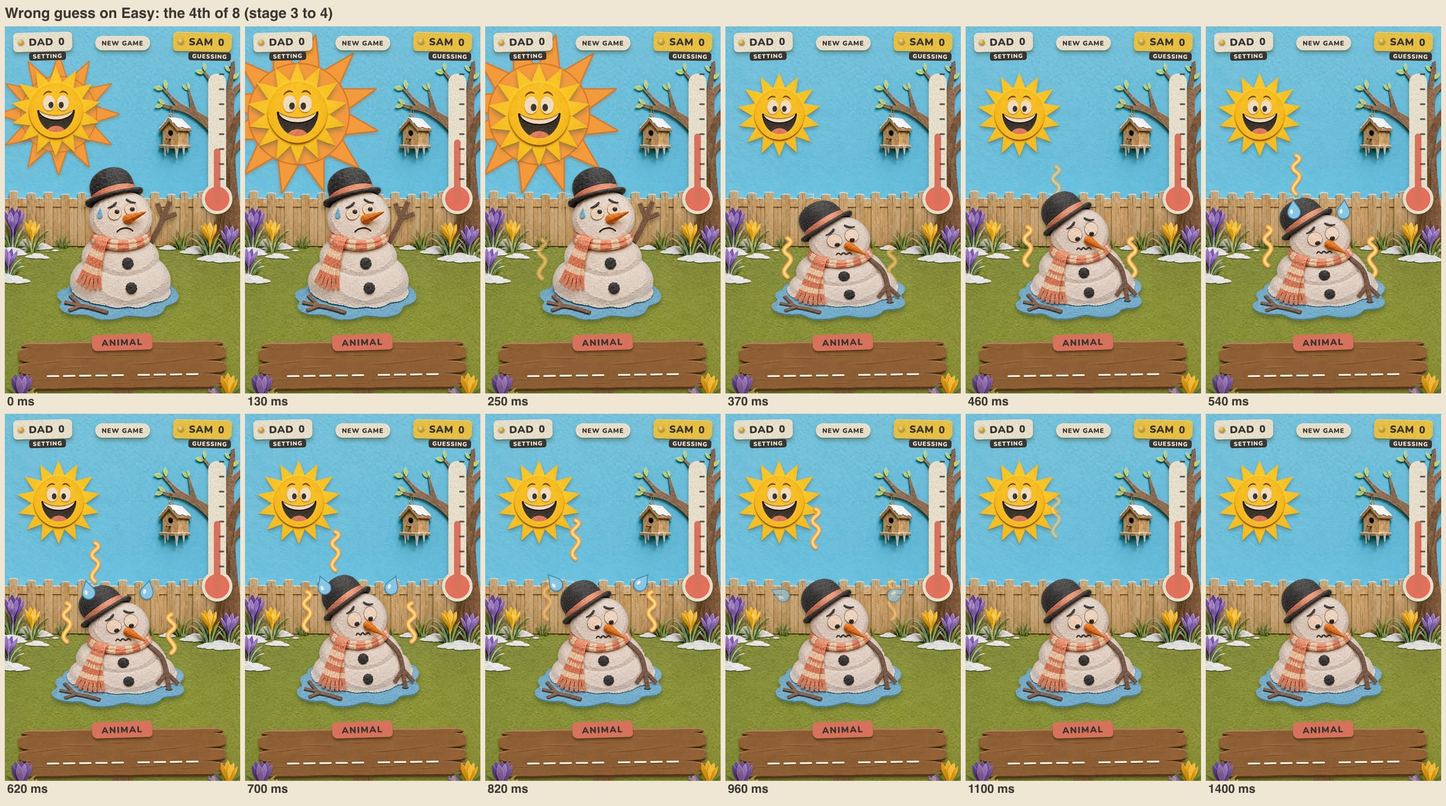
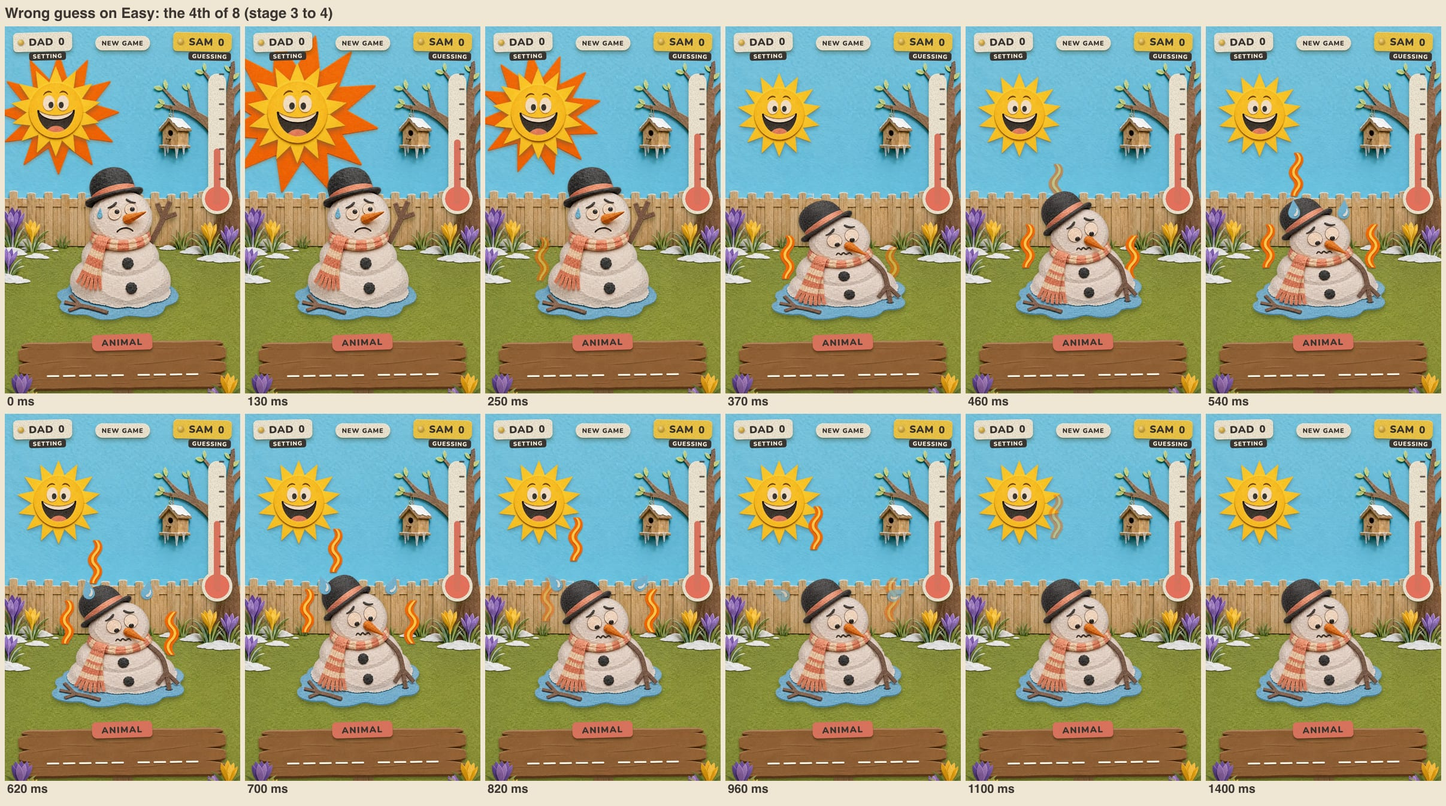
Remove the melt's stand-ins: the eleven real pieces are in
The round 7 pieces are cut and committed (6b077ad), so the melt loads them
straight from the manifest. src/paper/melt-standins/ and melt-art.ts, which
fell back to them, are gone, so no stand-in can ship. The real puddle
reaches down to the scarf's fringe as stage 8 does, so it now sits with its
bottom at his feet (REST.puddle.bottom 0, was 8 for the stand-in). The
strips in docs/phase-2/melt/game-*.jpg are retaken with the real art.

diff --git a/src/paper/melt-timeline.ts b/src/paper/melt-timeline.ts
@@ -17,7 +17,7 @@
 // of the middle of his feet and y up from them. melt.ts scales them to the screen.
 import manifest from './art-manifest.json';
 
-/** The loose pieces the melt draws, by the names they have (or will have) in public/art/. */
+/** The loose pieces the melt draws, by their names in public/art/ (art round 7, art/prompts/round-7-melt-pieces.md). */
 export const MELT_PIECES = [
   'puddle',
   'puddle-hat',
@@ -40,17 +40,17 @@ export const FULL = manifest['snowman-0'].h;
 export const stageHeight = (stage: number) => manifest[`snowman-${stage}` as keyof typeof manifest].h;
 
 /**
- * Where the middle of each loose piece lies when the puddle is at rest, as in the drawn stage 8
- * (measured by melt-standins/make-standins.mjs). The puddle is given by its bottom edge.
- * If the real puddle's outline differs, these are the numbers to nudge.
+ * Where the middle of each loose piece lies when the puddle is at rest, measured from the drawn
+ * stage 8, so the pieces lie as they do there. The puddle is given by its bottom edge: like stage 8
+ * it reaches down to the tip of the scarf's fringe, at his feet.
  */
 export const REST = {
-  puddle: { x: 0, bottom: 8 },
+  puddle: { x: 0, bottom: 0 },
   hat: { x: 53.5, y: 285.5 },
   carrot: { x: -127, y: 142.5 },
   eyes: { x: -76, y: 196.5 },
 } as const;
-/** Where the middle of the hat sits on stages 6 and 7, the two stages a round can be lost from. */
+/** Where the middle of the hat sits on stages 6 and 7 (measured from those pictures), the two stages a round can be lost from. */
 export const HAT_ON = {
   'hat-6': { x: -70.5, y: 383 },
   'hat-7': { x: -58, y: 284.5 },

diff --git a/src/paper/melt.ts b/src/paper/melt.ts
@@ -12,7 +12,6 @@
 import './melt.css';
 import { art, manifest, snowmanPiece } from './art';
 import type { SceneMetrics } from './celebration';
-import { meltPiece } from './melt-art';
 import {
   LOSS_MS,
   MELT_PIECES,
@@ -47,7 +46,7 @@ type Mode = 'idle' | 'miss' | 'loss' | 'rest';
 const STAGES = [0, 1, 2, 3, 4, 5, 6, 7];
 const HATS: HatPiece[] = ['hat-6', 'hat-7', 'puddle-hat'];
 
-/** `piece` names the picture for the browser checks: a stand-in's address says nothing about what it is. */
+/** `piece` names the picture, for the browser checks. */
 function img(src: string, piece: string, className = ''): HTMLImageElement {
   const el = new Image();
   el.alt = '';
@@ -63,7 +62,8 @@ function img(src: string, piece: string, className = ''): HTMLImageElement {
  */
 export function createMelt(scene: HTMLElement, snowman: HTMLImageElement, sun: HTMLImageElement, animateRest: boolean): Melt {
   // ---- the pieces ----
-  const pieces = Object.fromEntries(MELT_PIECES.map((name) => [name, meltPiece(name)])) as Record<MeltPiece, ReturnType<typeof meltPiece>>;
+  // each loose piece's address and its size in the cut art's pixels
+  const pieces = Object.fromEntries(MELT_PIECES.map((name) => [name, { src: art(name), ...manifest[name] }])) as Record<MeltPiece, { src: string; w: number; h: number }>;
   // Every picture is a direct child of the actor and is moved by its own transform: WebKit does not
   // paint pictures nested in a second zero-size box inside the actor's drop shadow.
   const bodies = new Map<number | 'puddle', HTMLImageElement>();

diff --git a/docs/phase-2/melt/notes.md b/docs/phase-2/melt/notes.md
@@ -21,7 +21,6 @@ The same shape as the win celebration.
 | `src/paper/melt-timeline.ts` | The melt as pure functions of the time since the guess: `missFrame(from, to, t)`, `lossFrame(from, t)`, `restFrame(t)`. Units are pixels of the cut art (the fresh snowman is 912 tall), from the middle of his feet. Also the piece names (`MELT_PIECES`) and where the loose pieces lie (`REST`, `HAT_ON`). |
 | `src/paper/melt-timeline.test.ts` | 17 tests: every miss at every difficulty starts and ends on the right stage and passes through each one in between; the hat hangs clear of the puddle and drops straight into its place; the loss ends in the puddle at rest; nothing is held for under 40 ms. |
 | `src/paper/melt.ts`, `melt.css` | Draws one frame at a time over the play screen's scene. While it plays, the plain `#snowman` is faded out (class `aside`), not removed, so its alt text is still read. |
-| `src/paper/melt-art.ts` | Where each loose piece comes from: `public/art/` once the manifest has it, otherwise a stand-in from `src/paper/melt-standins/`. |
 | `src/paper/play.ts` | Starts the beat on a wrong guess and the loss on the last one; holds the result back until the loss has played or been skipped. |
 
 Rules it follows:
@@ -41,7 +40,7 @@ Eleven loose pieces, by the names they have in `public/art/` (`art/prompts/round
 - Sheet `melt-puddle.png`: `puddle`, `puddle-hat`, `puddle-carrot`, `puddle-eyes`, `puddle-eyes-closed`, `hat-6`, `hat-7`.
 - Sheet `melt-heat.png`: `sun-flare`, `heat-1`, `heat-2`, `drop`.
 
-Until a piece is cut, the game uses a rough stand-in of the same name from `src/paper/melt-standins/` (cut from the existing stages by `make-standins.mjs`, or a simple drawn shape). **Stand-ins must not go live.** When all eleven real pieces are in the manifest, delete `src/paper/melt-standins/` and the stand-in half of `melt-art.ts`.
+All eleven were generated and cut on 2026-11-21 (commit 6b077ad; the prompts file has the results, including why the puddle's pieces come from three sheets). The game was first built with rough stand-ins cut from the existing stages; they were deleted once the real pieces were in (their cutter is in the history at commit 1b2edb6, `src/paper/melt-standins/make-standins.mjs`). `REST` and `HAT_ON` in `melt-timeline.ts`, the places the pieces lie, were measured from the drawn stages 6, 7 and 8 by that cutter.
 
 The puddle has no eyes drawn on it: the open and closed eyes are two pieces that are swapped, so they never have to line up with a drawing underneath. The drawn stage 8 (`snowman-8`) is still what the plain `#snowman` holds on a lost round, for its alt text, but it is not seen: the puddle and its loose pieces stand in front of it.
 
